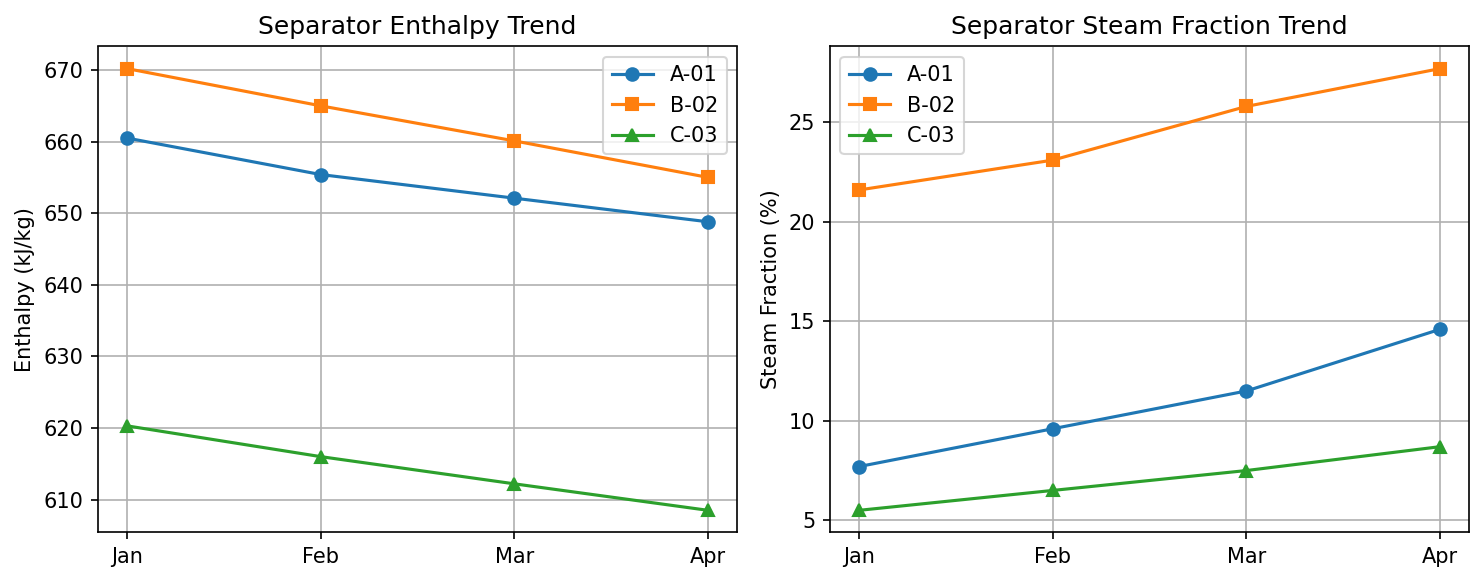
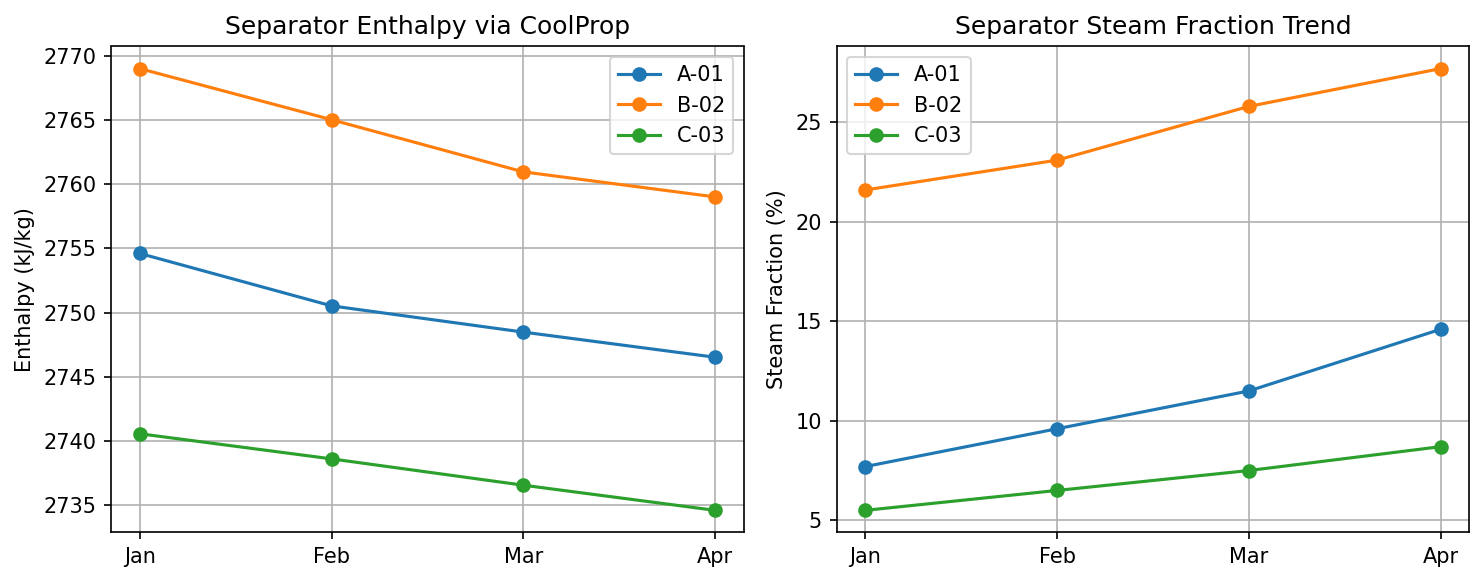
feat: update figure generator to use pygeotoolbox, add skill references
- generate_course_figures.py now calls pygeotoolbox.thermo for real enthalpy data
- Figures regenerated with CoolProp data
- README links to pygeotoolbox-mcp repo

diff --git a/scripts/generate_course_figures.py b/scripts/generate_course_figures.py
@@ -12,33 +12,49 @@ import os
 import matplotlib.pyplot as plt
 import numpy as np
 
+try:
+    from pygeotoolbox import thermo, wellbore
+except ImportError:
+    thermo = None
+    wellbore = None
+
 def figure_1_separator():
-    """Plot separator enthalpy and steam fraction trends."""
+    """Plot separator enthalpy and steam fraction trends using real pygeotoolbox data."""
+    # Raw data: (T_C, P_kPa, steam_frac) for each well per month
+    raw = {
+        'A-01': [(145, 250, 0.077), (143, 248, 0.096), (142, 247, 0.115), (141, 245, 0.146)],
+        'B-02': [(152, 255, 0.216), (150, 252, 0.231), (148, 250, 0.258), (147, 248, 0.277)],
+        'C-03': [(138, 240, 0.055), (137, 238, 0.065), (136, 237, 0.075), (135, 235, 0.087)],
+    }
     dates = ['Jan', 'Feb', 'Mar', 'Apr']
-    # Well A-01: higher enthalpy, increasing steam fraction
-    enthalpy_A = [660.5, 655.4, 652.1, 648.8]
-    fraction_A = [0.077, 0.096, 0.115, 0.146]
-    # Well B-02: lower enthalpy, wetter start
-    enthalpy_B = [670.2, 665.0, 660.1, 655.0]
-    fraction_B = [0.216, 0.231, 0.258, 0.277]
-    # Well C-03: moderate
-    enthalpy_C = [620.3, 616.0, 612.2, 608.5]
-    fraction_C = [0.055, 0.065, 0.075, 0.087]
+
+    enthalpy = {k: [] for k in raw}
+    if thermo is not None:
+        for well, values in raw.items():
+            for T, P, _ in values:
+                try:
+                    h = thermo.enthalpy_from_TP(T, P) / 1000.0
+                    enthalpy[well].append(h)
+                except Exception:
+                    enthalpy[well].append(None)
+    else:
+        # fallback linear approx
+        for well, values in raw.items():
+            for T, _, _ in values:
+                enthalpy[well].append(4.18 * T)
 
     fig, axes = plt.subplots(1, 2, figsize=(10, 4))
     ax = axes[0]
-    ax.plot(dates, enthalpy_A, 'o-', label='A-01')
-    ax.plot(dates, enthalpy_B, 's-', label='B-02')
-    ax.plot(dates, enthalpy_C, '^-', label='C-03')
+    for well in ['A-01', 'B-02', 'C-03']:
+        ax.plot(dates, enthalpy[well], marker='o', label=well)
     ax.set_ylabel('Enthalpy (kJ/kg)')
-    ax.set_title('Separator Enthalpy Trend')
+    ax.set_title('Separator Enthalpy via CoolProp')
     ax.legend()
     ax.grid(True)
 
     ax = axes[1]
-    ax.plot(dates, [x*100 for x in fraction_A], 'o-', label='A-01')
-    ax.plot(dates, [x*100 for x in fraction_B], 's-', label='B-02')
-    ax.plot(dates, [x*100 for x in fraction_C], '^-', label='C-03')
+    for well, values in raw.items():
+        ax.plot(dates, [x*100 for _, _, x in values], marker='o', label=well)
     ax.set_ylabel('Steam Fraction (%)')
     ax.set_title('Separator Steam Fraction Trend')
     ax.legend()